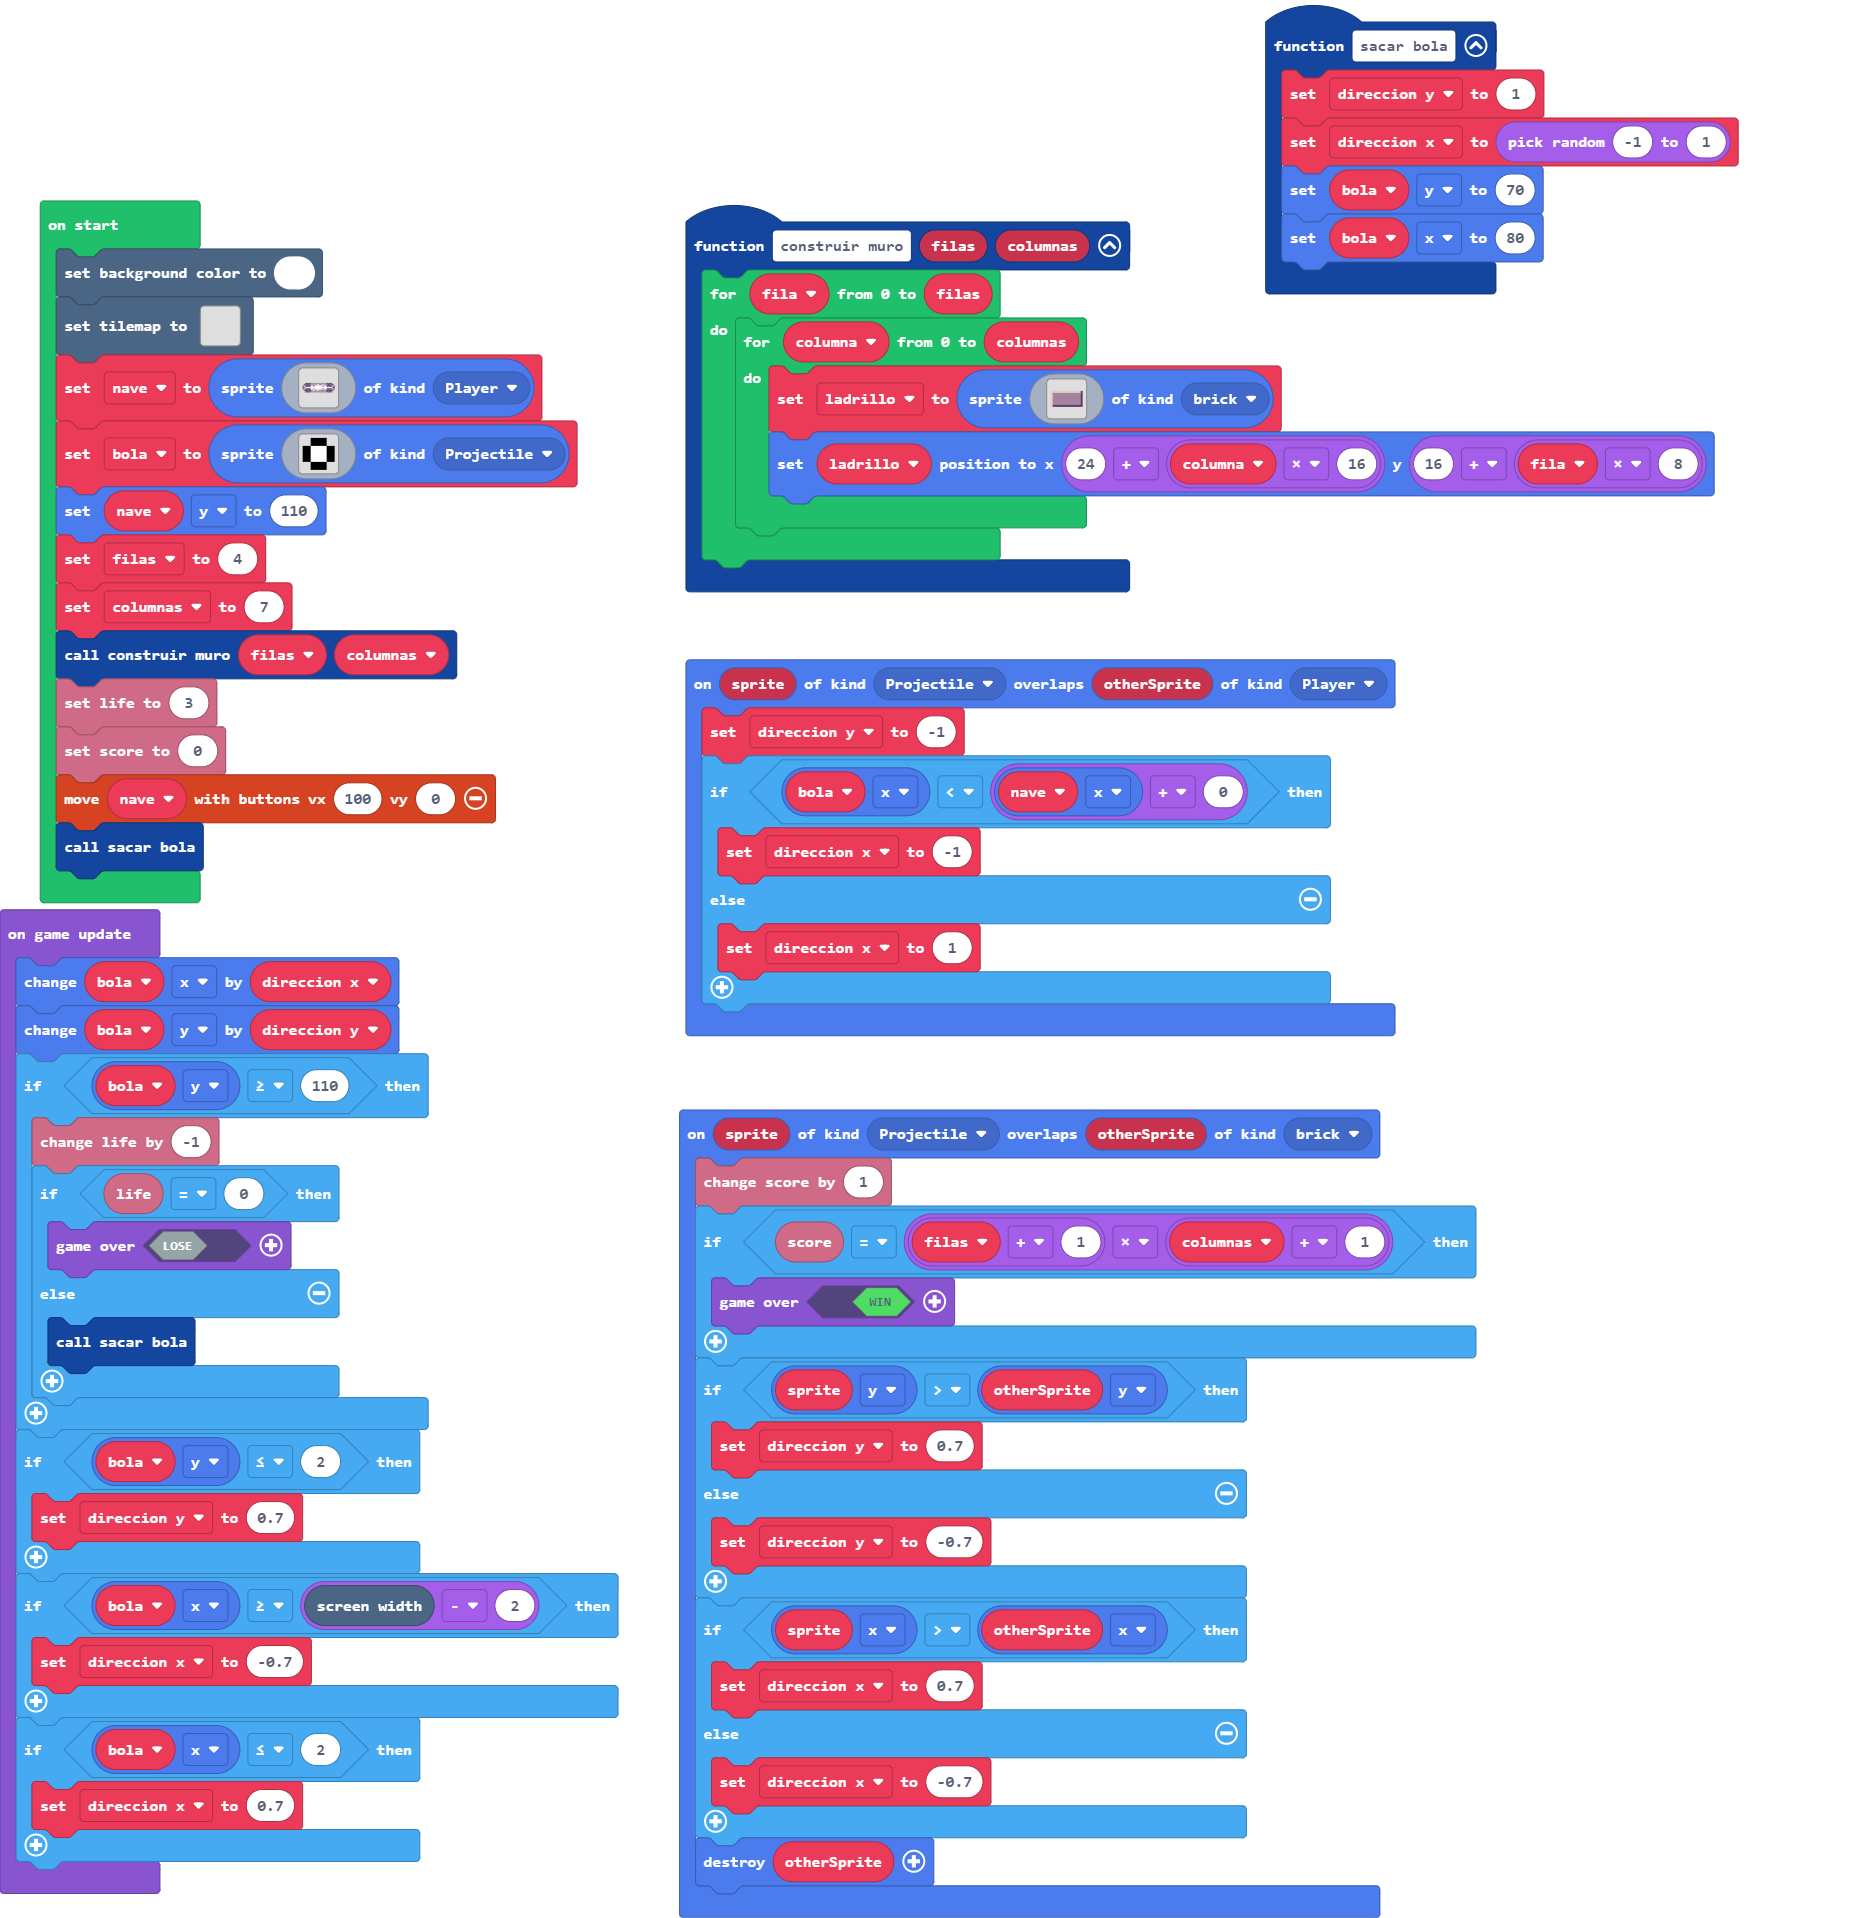
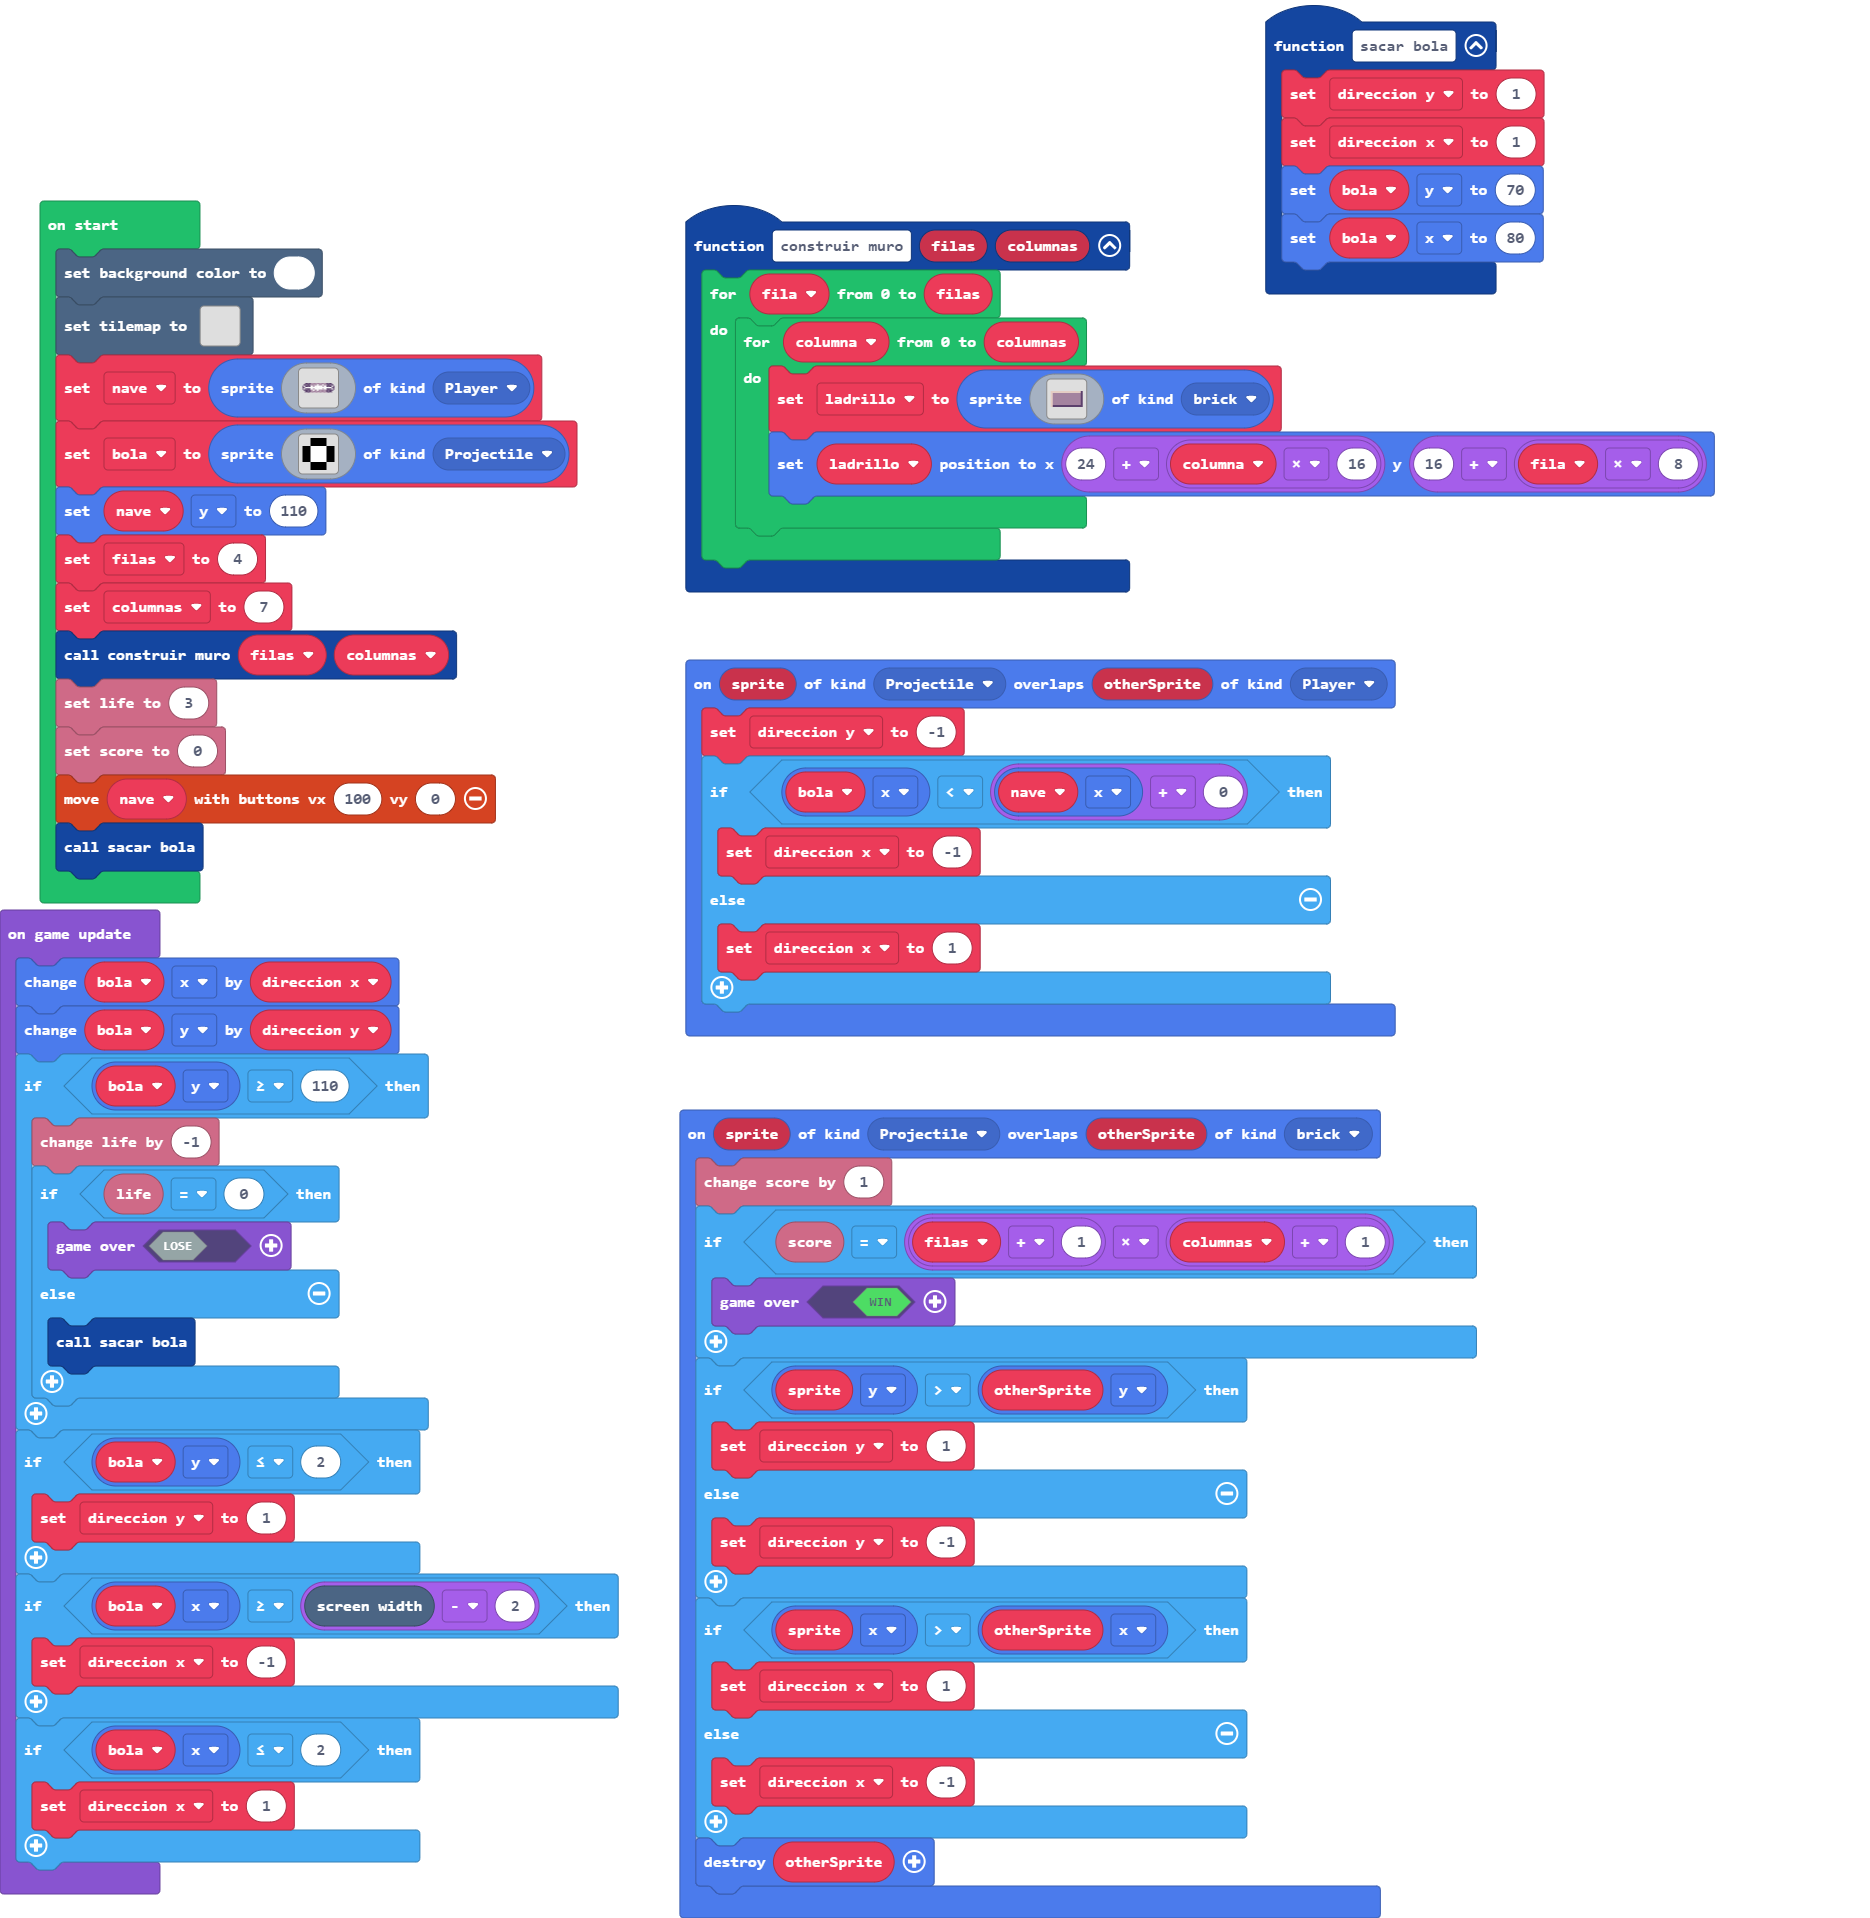
Fijada la direccion de comienzo en diagonal abajo derecha

diff --git a/main.ts b/main.ts
@@ -32,20 +32,20 @@ sprites.onOverlap(SpriteKind.Projectile, SpriteKind.brick, function (sprite, oth
         game.over(true)
     }
     if (sprite.y > otherSprite.y) {
-        direccion_y = 0.7
+        direccion_y = 1
     } else {
-        direccion_y = -0.7
+        direccion_y = -1
     }
     if (sprite.x > otherSprite.x) {
-        direccion_x = 0.7
+        direccion_x = 1
     } else {
-        direccion_x = -0.7
+        direccion_x = -1
     }
     otherSprite.destroy()
 })
 function sacar_bola () {
     direccion_y = 1
-    direccion_x = randint(-1, 1)
+    direccion_x = 1
     bola.y = 70
     bola.x = 80
 }
@@ -102,12 +102,12 @@ game.onUpdate(function () {
         }
     }
     if (bola.y <= 2) {
-        direccion_y = 0.7
+        direccion_y = 1
     }
     if (bola.x >= scene.screenWidth() - 2) {
-        direccion_x = -0.7
+        direccion_x = -1
     }
     if (bola.x <= 2) {
-        direccion_x = 0.7
+        direccion_x = 1
     }
 })
